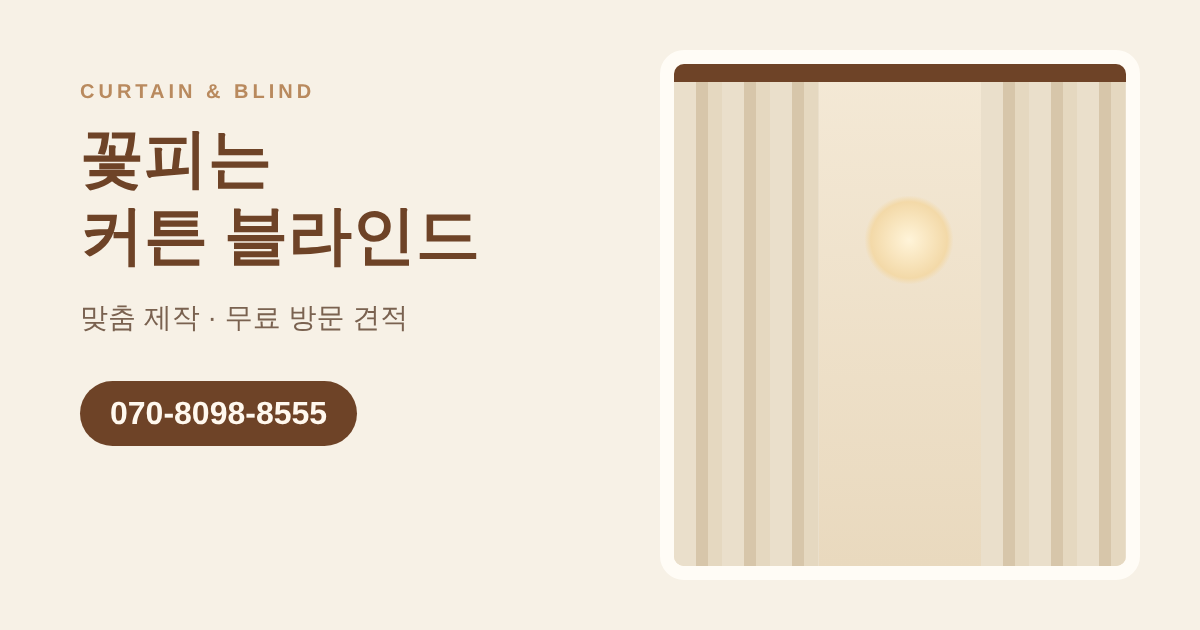
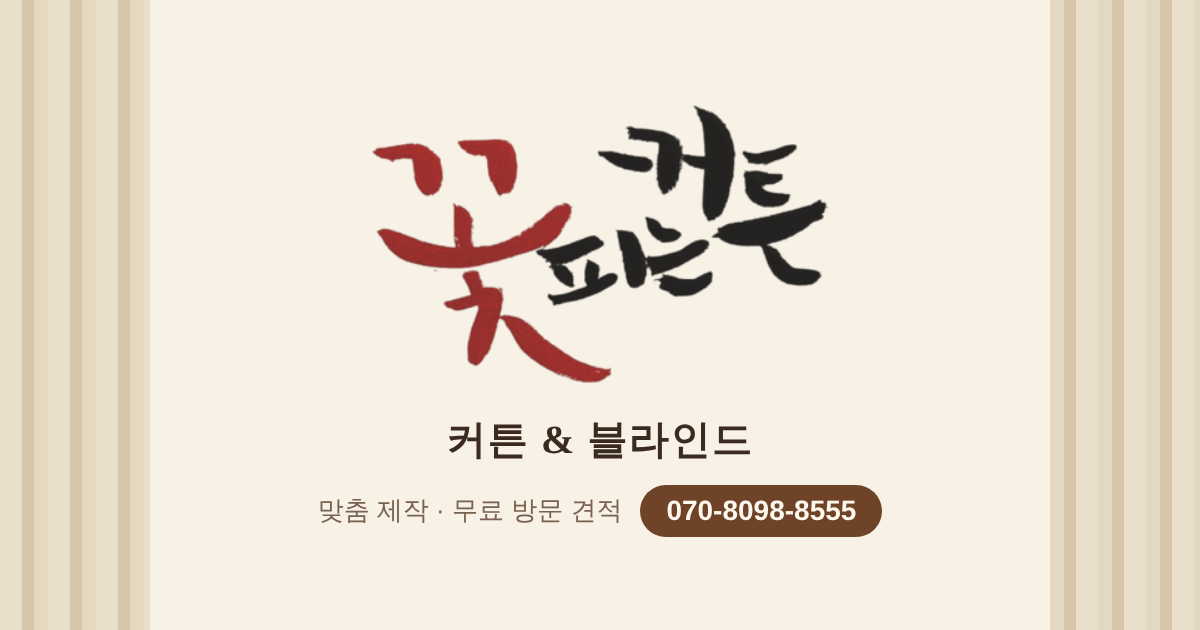
붓글씨 로고 적용: 상단·푸터 로고, 파비콘(꽃), 공유 이미지
Claude-Session: https://claude.ai/code/session_01BPNLJWLFrZ5R4zxCWCSmKD

diff --git a/site.js b/site.js
@@ -65,13 +65,13 @@
       return '<a href="'+m[0]+'"'+(m[0]===page?' aria-current="page"':'')+'>'+m[1]+'</a>';
     }).join("");
   }
-  var logo = '<svg width="28" height="28" viewBox="0 0 32 32" aria-hidden="true"><g fill="none" stroke="#6E4327" stroke-linecap="round" stroke-linejoin="round"><path d="M4 6.8H28" stroke-width="1.8"/><circle cx="4" cy="6.8" r="1.3" stroke-width="1.2"/><circle cx="28" cy="6.8" r="1.3" stroke-width="1.2"/><path d="M5.6 7.6V27H16C12.6 24.6 9.6 21.4 10.4 18.9C11.8 15.8 17.6 13 19.8 7.6" stroke-width="1.5"/><path d="M9 7.6C8.9 11.8 8.3 15.6 7.9 18.9C7.7 21.8 7.9 24.6 8.3 27M12.6 7.6C11.6 11.6 10.1 15.4 9.2 18.9C9 21.7 10 24.5 11.4 27M16.2 7.6C14.6 11.4 12 14.6 10.3 17.6M10.4 20.6C11 23 12.4 25.2 13.9 27" stroke-width="1.05"/><path d="M5.6 18.9H10.6" stroke-width="1.6"/></g></svg>';
+  var logo = '<img class="logo" src="img/logo.png" alt="꽃피는 커튼" width="77" height="48">';
 
   var h = document.getElementById("site-header");
   if (h) {
     h.outerHTML =
       '<header class="top"><div class="wrap">'
-      + '<a class="brand" href="index.html">'+logo+SITE.name+'</a>'
+      + '<a class="brand" href="index.html" aria-label="'+SITE.name+' 홈">'+logo+'<span class="brand-sub">커튼 &amp; 블라인드</span></a>'
       + '<nav class="menu" aria-label="주요 메뉴">'+links()+'</nav>'
       + '<a class="tel tnum" href="'+SITE.telHref+'">📞 '+SITE.tel+'</a>'
       + '<button class="burger" type="button" id="burger" aria-expanded="false" aria-controls="mnav" aria-label="메뉴 열기">☰</button>'
@@ -104,7 +104,7 @@
   if (f) {
     f.outerHTML =
       '<footer><div class="wrap">'
-      + '<div><h4>'+SITE.name+'</h4><p style="margin-bottom:12px">창가에 피어나는 편안함을 만듭니다.</p>'
+      + '<div><img class="flogo" src="img/logo-light.png" alt="꽃피는 커튼" width="103" height="64"><h4 style="margin-top:10px">'+SITE.name+'</h4><p style="margin-bottom:12px">창가에 피어나는 편안함을 만듭니다.</p>'
       + '<p class="tnum">📞 '+SITE.tel+'</p>'
       + (SITE.hours ? '<p>🕘 '+esc(SITE.hours)+'</p>' : '')
       + (SITE.kakao ? '<p><a href="'+SITE.kakao+'" target="_blank" rel="noopener">💬 카카오톡 채널</a></p>' : '')

diff --git a/style.css b/style.css
@@ -44,7 +44,10 @@ section{padding-block:72px}
 /* header */
 .top{position:sticky;top:0;z-index:20;background:rgba(255,252,246,.94);backdrop-filter:blur(6px);border-bottom:1px solid var(--sand)}
 .top .wrap{display:flex;align-items:center;justify-content:space-between;gap:16px;min-height:64px}
-.brand{display:flex;align-items:center;gap:10px;font-family:var(--f-display);font-weight:700;font-size:19px;text-decoration:none;color:var(--bark)}
+.brand{display:flex;align-items:center;gap:12px;text-decoration:none;color:var(--bark)}
+.brand .logo{height:48px;width:auto;display:block}
+.brand-sub{font-family:var(--f-display);font-weight:700;font-size:16px;letter-spacing:.02em;padding-left:12px;border-left:1px solid var(--sand);white-space:nowrap}
+footer .flogo{height:64px;width:auto;display:block}
 .menu{display:none;gap:26px;font-size:15px}
 .menu a{text-decoration:none;color:var(--umber)}
 .menu a:hover{color:var(--bark)}

diff --git a/index.html b/index.html
@@ -7,7 +7,8 @@
 <!-- seo -->
 <meta name="description" content="창 크기에 맞춘 커튼·블라인드 제작과 설치. 서울·경기·인천 무료 방문 실측과 견적. 전화 070-8098-8555">
 <meta name="keywords" content="커튼, 블라인드, 린넨 커튼, 암막 커튼, 우드 블라인드, 롤스크린, 콤비 블라인드, 허니콤, 맞춤 커튼, 커튼 설치, 서울 커튼, 경기 커튼, 인천 커튼, 꽃피는 커튼 블라인드">
-<link rel="icon" href="favicon.svg" type="image/svg+xml">
+<link rel="icon" href="favicon-32.png" type="image/png" sizes="32x32">
+<link rel="apple-touch-icon" href="apple-touch-icon.png">
 <meta property="og:type" content="website">
 <meta property="og:site_name" content="꽃피는 커튼 블라인드">
 <meta property="og:title" content="꽃피는 커튼 블라인드 | 서울·경기·인천 맞춤 커튼·블라인드">

diff --git a/gallery.html b/gallery.html
@@ -7,7 +7,8 @@
 <!-- seo -->
 <meta name="description" content="린넨·암막 커튼, 우드·콤비 블라인드, 롤스크린, 허니콤 시공 사례를 제품별로 확인하세요.">
 <meta name="keywords" content="커튼, 블라인드, 린넨 커튼, 암막 커튼, 우드 블라인드, 롤스크린, 콤비 블라인드, 허니콤, 맞춤 커튼, 커튼 설치, 서울 커튼, 경기 커튼, 인천 커튼, 꽃피는 커튼 블라인드">
-<link rel="icon" href="favicon.svg" type="image/svg+xml">
+<link rel="icon" href="favicon-32.png" type="image/png" sizes="32x32">
+<link rel="apple-touch-icon" href="apple-touch-icon.png">
 <meta property="og:type" content="website">
 <meta property="og:site_name" content="꽃피는 커튼 블라인드">
 <meta property="og:title" content="시공 사례 | 꽃피는 커튼 블라인드">

diff --git a/about.html b/about.html
@@ -7,7 +7,8 @@
 <!-- seo -->
 <meta name="description" content="직접 방문해 재고, 공간에 맞게 제작하고 설치하는 꽃피는 커튼 블라인드를 소개합니다.">
 <meta name="keywords" content="커튼, 블라인드, 린넨 커튼, 암막 커튼, 우드 블라인드, 롤스크린, 콤비 블라인드, 허니콤, 맞춤 커튼, 커튼 설치, 서울 커튼, 경기 커튼, 인천 커튼, 꽃피는 커튼 블라인드">
-<link rel="icon" href="favicon.svg" type="image/svg+xml">
+<link rel="icon" href="favicon-32.png" type="image/png" sizes="32x32">
+<link rel="apple-touch-icon" href="apple-touch-icon.png">
 <meta property="og:type" content="website">
 <meta property="og:site_name" content="꽃피는 커튼 블라인드">
 <meta property="og:title" content="회사 소개 | 꽃피는 커튼 블라인드">

diff --git a/faq.html b/faq.html
@@ -7,7 +7,8 @@
 <!-- seo -->
 <meta name="description" content="견적 비용, 제작·시공 기간, 전세집 설치, A/S 등 자주 묻는 질문과 답변.">
 <meta name="keywords" content="커튼, 블라인드, 린넨 커튼, 암막 커튼, 우드 블라인드, 롤스크린, 콤비 블라인드, 허니콤, 맞춤 커튼, 커튼 설치, 서울 커튼, 경기 커튼, 인천 커튼, 꽃피는 커튼 블라인드">
-<link rel="icon" href="favicon.svg" type="image/svg+xml">
+<link rel="icon" href="favicon-32.png" type="image/png" sizes="32x32">
+<link rel="apple-touch-icon" href="apple-touch-icon.png">
 <meta property="og:type" content="website">
 <meta property="og:site_name" content="꽃피는 커튼 블라인드">
 <meta property="og:title" content="자주 묻는 질문 | 꽃피는 커튼 블라인드">

diff --git a/inquiry.html b/inquiry.html
@@ -7,7 +7,8 @@
 <!-- seo -->
 <meta name="description" content="성함과 연락처, 지역만 남겨주시면 무료 방문 견적을 안내해 드립니다.">
 <meta name="keywords" content="커튼, 블라인드, 린넨 커튼, 암막 커튼, 우드 블라인드, 롤스크린, 콤비 블라인드, 허니콤, 맞춤 커튼, 커튼 설치, 서울 커튼, 경기 커튼, 인천 커튼, 꽃피는 커튼 블라인드">
-<link rel="icon" href="favicon.svg" type="image/svg+xml">
+<link rel="icon" href="favicon-32.png" type="image/png" sizes="32x32">
+<link rel="apple-touch-icon" href="apple-touch-icon.png">
 <meta property="og:type" content="website">
 <meta property="og:site_name" content="꽃피는 커튼 블라인드">
 <meta property="og:title" content="무료 견적 문의 | 꽃피는 커튼 블라인드">

diff --git a/areas.html b/areas.html
@@ -7,7 +7,8 @@
 <!-- seo -->
 <meta name="description" content="서울·경기·인천 시공 지역 안내. 무료 방문 실측과 견적을 받아보세요.">
 <meta name="keywords" content="커튼, 블라인드, 린넨 커튼, 암막 커튼, 우드 블라인드, 롤스크린, 콤비 블라인드, 허니콤, 맞춤 커튼, 커튼 설치, 서울 커튼, 경기 커튼, 인천 커튼, 꽃피는 커튼 블라인드">
-<link rel="icon" href="favicon.svg" type="image/svg+xml">
+<link rel="icon" href="favicon-32.png" type="image/png" sizes="32x32">
+<link rel="apple-touch-icon" href="apple-touch-icon.png">
 <meta property="og:type" content="website">
 <meta property="og:site_name" content="꽃피는 커튼 블라인드">
 <meta property="og:title" content="시공 지역 | 꽃피는 커튼 블라인드">

diff --git a/reviews.html b/reviews.html
@@ -7,7 +7,8 @@
 <!-- seo -->
 <meta name="description" content="꽃피는 커튼 블라인드에서 시공한 고객님들의 후기입니다.">
 <meta name="keywords" content="커튼, 블라인드, 린넨 커튼, 암막 커튼, 우드 블라인드, 롤스크린, 콤비 블라인드, 허니콤, 맞춤 커튼, 커튼 설치, 서울 커튼, 경기 커튼, 인천 커튼, 꽃피는 커튼 블라인드">
-<link rel="icon" href="favicon.svg" type="image/svg+xml">
+<link rel="icon" href="favicon-32.png" type="image/png" sizes="32x32">
+<link rel="apple-touch-icon" href="apple-touch-icon.png">
 <meta property="og:type" content="website">
 <meta property="og:site_name" content="꽃피는 커튼 블라인드">
 <meta property="og:title" content="고객 후기 | 꽃피는 커튼 블라인드">

diff --git a/blog.html b/blog.html
@@ -7,7 +7,8 @@
 <!-- seo -->
 <meta name="description" content="커튼과 블라인드를 고를 때 도움이 되는 인테리어 이야기.">
 <meta name="keywords" content="커튼, 블라인드, 린넨 커튼, 암막 커튼, 우드 블라인드, 롤스크린, 콤비 블라인드, 허니콤, 맞춤 커튼, 커튼 설치, 서울 커튼, 경기 커튼, 인천 커튼, 꽃피는 커튼 블라인드">
-<link rel="icon" href="favicon.svg" type="image/svg+xml">
+<link rel="icon" href="favicon-32.png" type="image/png" sizes="32x32">
+<link rel="apple-touch-icon" href="apple-touch-icon.png">
 <meta property="og:type" content="website">
 <meta property="og:site_name" content="꽃피는 커튼 블라인드">
 <meta property="og:title" content="블로그 | 꽃피는 커튼 블라인드">

diff --git a/area.html b/area.html
@@ -7,7 +7,8 @@
 <!-- seo -->
 <meta name="description" content="지역별 커튼·블라인드 무료 방문 실측과 견적 안내.">
 <meta name="keywords" content="커튼, 블라인드, 린넨 커튼, 암막 커튼, 우드 블라인드, 롤스크린, 콤비 블라인드, 허니콤, 맞춤 커튼, 커튼 설치, 서울 커튼, 경기 커튼, 인천 커튼, 꽃피는 커튼 블라인드">
-<link rel="icon" href="favicon.svg" type="image/svg+xml">
+<link rel="icon" href="favicon-32.png" type="image/png" sizes="32x32">
+<link rel="apple-touch-icon" href="apple-touch-icon.png">
 <meta property="og:type" content="website">
 <meta property="og:site_name" content="꽃피는 커튼 블라인드">
 <meta property="og:title" content="지역 안내 | 꽃피는 커튼 블라인드">

diff --git a/privacy.html b/privacy.html
@@ -7,7 +7,8 @@
 <!-- seo -->
 <meta name="description" content="꽃피는 커튼 블라인드 개인정보처리방침.">
 <meta name="keywords" content="커튼, 블라인드, 린넨 커튼, 암막 커튼, 우드 블라인드, 롤스크린, 콤비 블라인드, 허니콤, 맞춤 커튼, 커튼 설치, 서울 커튼, 경기 커튼, 인천 커튼, 꽃피는 커튼 블라인드">
-<link rel="icon" href="favicon.svg" type="image/svg+xml">
+<link rel="icon" href="favicon-32.png" type="image/png" sizes="32x32">
+<link rel="apple-touch-icon" href="apple-touch-icon.png">
 <meta property="og:type" content="website">
 <meta property="og:site_name" content="꽃피는 커튼 블라인드">
 <meta property="og:title" content="개인정보처리방침 | 꽃피는 커튼 블라인드">
